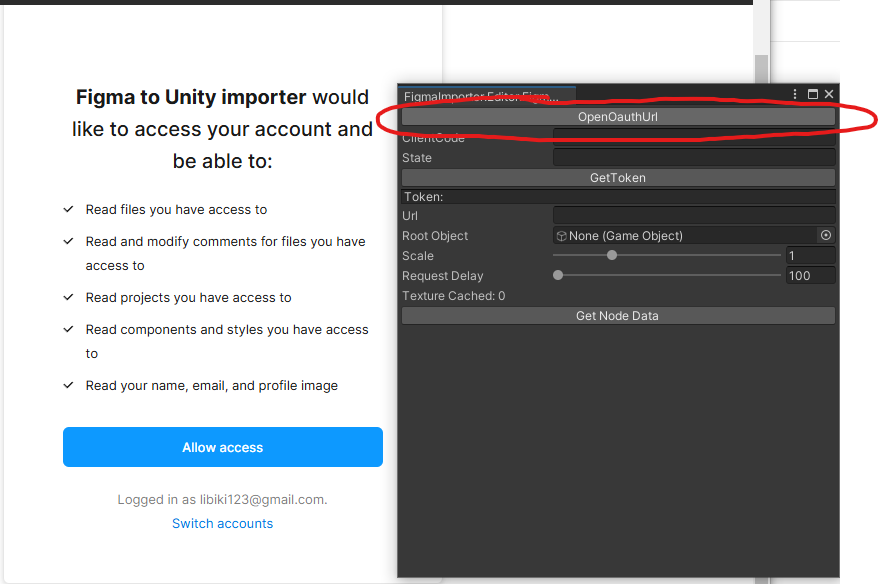
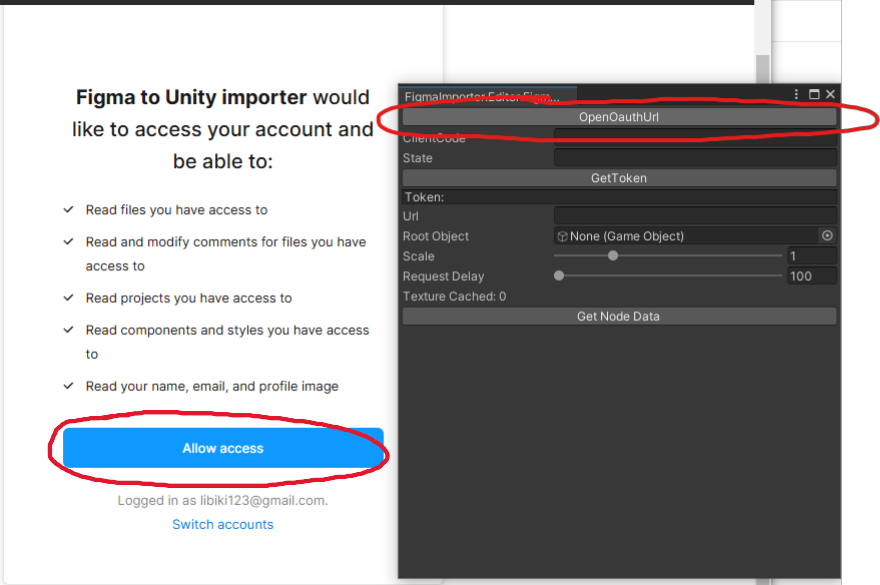
interview doc update

diff --git a/docs/interview-docs/unity/interviewPrep.md b/docs/interview-docs/unity/interviewPrep.md
@@ -29,38 +29,88 @@ Your interview preparation for Unity should vary based on your experience and th
 
 Some interview questions that may come up during the process:
 
+### General
+
 1. **Tell me about yourself**
+
+   - Introduce your name > year of experience > your hobby - if align with the job > your current position & company - if employed > your main task in the company > your past experience/product (if any) > your goal in the future
 
 2. Tell me where a time you strongly disagree with someone in your team
 
-. What are your product frameworks you have been using?
+3. What are your product frameworks you have been using?
 
-. Describe one project in your portfolio
+4. Describe one project in your portfolio
 
-6. **How would you optimize code, scene, material, shader to make it compatible with even low end phone?**
+### Unity
 
-   Check out my [Unity Optimization](../../unity-docs/unity-optimizing.md) page for more details
+1. **What components have you used in your project?**
 
-   - You can use **Frame debugger** to check draw call to check where/what being drawing each frame, combine sprite using **Sprite Atlas** to reduce draw call
-   - You can use custom **Tick System** to replace normal **Update** in mono, this will reduce the update call for logic that doesnt need to be updated every frame
-   - you can create a **Benchmark Tool** to test your code to measure its performance, this will help you identify where/what being slow
-   - Using **Hash String** with animator. Animmator functions usually hash the string you pass in the parameter and this will cost some performant, we can reduce by using **Animator.StringToHash** from the start. Same thing with change shader property, we can use **Shader.PropertyToID** to hash the property name and change the shader property with the hash value.
-   - Changing renderer pipeline setting, you can turn off setting like **Depth Texture** to reduce draw call.
-   - For instantiate lots of object, you can use **Object Pooling System** to reuse the object and reduce garbage collection.
-   - Compressing textures, sprites and audios. Change the compression setting to reduce the size of the texture, sprite and audio but make sure the quality is not degraded.
+2. Physics
 
-. Do you know how to use profiler?
+- which collider cost lest
 
-. How do you reduce size of the game without satisfied the quality?
+3. Animator
 
-. Which programming pattern you implement in your project?
+   - blend animation
+   - blend top and bot anim
+   - control animation
 
-. Have you play this \*\*\*\* game? can do deconstruct and explain how this game works?
+4. Light
 
-. Do you know about addressable and assetBundle?
+   - different type of light
+   - light probe, reflection probe
+
+5. Shadow
+
+- if shadow not showing, how would you solve it?
+
+6. Particle System
+
+- scaling
+
+7. Rendering
+
+- layer, camera, ui so on
+- Understand batching and managing UI draw calls
+
+8. Shader
+
+- car crash
+
+9. Audio & Texture compression
+
+- different compression for pc, android, ios
+
+10. **Optimizing**
+
+    Check out my [Unity Optimization](../../unity-docs/unity-optimizing.md) page for more details
+
+    - You can use **Frame debugger** to check draw call to check where/what being drawing each frame, combine sprite using **Sprite Atlas** to reduce draw call
+    - You can use custom **Tick System** to replace normal **Update** in mono, this will reduce the update call for logic that doesnt need to be updated every frame
+    - you can create a **Benchmark Tool** to test your code to measure its performance, this will help you identify where/what being slow
+    - Using **Hash String** with animator. Animmator functions usually hash the string you pass in the parameter and this will cost some performant, we can reduce by using **Animator.StringToHash** from the start. Same thing with change shader property, we can use **Shader.PropertyToID** to hash the property name and change the shader property with the hash value.
+    - Changing renderer pipeline setting, you can turn off setting like **Depth Texture** to reduce draw call.
+    - For instantiate lots of object, you can use **Object Pooling System** to reuse the object and reduce garbage collection.
+    - Compressing textures, sprites and audios. Change the compression setting to reduce the size of the texture, sprite and audio but make sure the quality is not degraded.
+
+11. MonoBehaviour
+
+- different between update, fixed update, late update
+
+12. Couroutine
+
+### C#
+
+1. What is the difference between **struct** and **class** in C#?
+
+2. is array, list big O or small O
 
 ---
 
 ## Questions to Ask
 
 You will need to prepare some questions to ask during the interview. Do research about the company and their products.
+
+Here some general questions that you can ask:
+
+1.

diff --git a/docs/unity-docs/unity-plugin/figma-importer.md b/docs/unity-docs/unity-plugin/figma-importer.md
@@ -22,7 +22,7 @@ https://github.com/phamtanlong/figma-to-unity-ugui.git?path=/Assets/Packages/Fig
 
 ### Authorization
 
-1. **Open Figma Importer**
+1. Open Figma Importer
 
    - Open FI panel from **Window > FigmaImporter**.
 
@@ -30,20 +30,37 @@ https://github.com/phamtanlong/figma-to-unity-ugui.git?path=/Assets/Packages/Fig
 
 2. You'll be redirected to a page to allow access. Click **Allow access**.
 
-   ![Figma access](#)
+   ![FI access](img/figma-importer/image2.png)
 
-3. Afterward, a callback page will open. Copy the `ClientCode` and `State` values into the **Figma Editor** window in Unity.
-4. Press the **GetToken** button.
+3. Afterward, a callback page will open. Copy the `ClientCode` and `State` values into the **Figma Editor** window in Unity. Then press the **GetToken** button.
 
-   - If the token appears, the process is successful. If not, repeat the authorization steps.
+   ![FI access 2](img/figma-importer/image3.png)
 
-   ![Token](#)
+4. If the token appears, the process is successful. If not, repeat the authorization steps.
 
 ### Importing Nodes
 
-1. Copy the desired node link from Figma and paste it into the **URL** field in Unity.
-2. Add a **Canvas** to the Canvas field in the importer editor window.
-3. Press the **Get Node Data** button. This will load the node data, including its children.
+1. Create all important setting from **Tool > FigmaImporter > Create All Setting**
+
+   ![FI setting](img/figma-importer/image4.png)
+
+   :::info Font Handling
+
+   If you encounter a font error, add the required font to the `FontLinks.asset` ScriptableObject.
+
+   ![Font Links](img/figma-importer/image8.png)
+
+   :::
+
+2. Copy the desired node link from Figma
+
+   ![Figma copy](img/figma-importer/image5.png)
+
+3. Paste it into the `URL` field in Unity. Add a **Canvas** to the Canvas field in the importer editor window.
+
+   ![FI URL](img/figma-importer/image6.png)
+
+4. Press the **Get Node Data** button. This will load the node data, including its children.
 
 ### Setting Actions for Nodes
 
@@ -65,9 +82,11 @@ Three buttons help manage node actions:
 2. **To Transform:** Sets all nodes to **Transform**. Useful for applying changes to existing objects.
 3. **To SVG:** Requires Unity's Vector Graphics package. Attempts to load all images as SVG.
 
+![Generate Nodes](img/figma-importer/image7.png)
+
 ### Generating Nodes
 
-1. After setting actions for all nodes, press the **Generate Nodes** button. This will generate the node in the referenced Canvas.
+After setting actions for all nodes, press the **Generate Nodes** button. This will generate the node in the referenced Canvas.
 
 #### Applying Changes to Existing Objects
 
@@ -78,7 +97,3 @@ Three buttons help manage node actions:
 
 - You can adjust the scale of objects and raster images using the **Scale** parameter.
 - Maximum allowed scale is **x4** (Figma API limitation).
-
-### Font Handling
-
-- If you encounter a font error, add the required font to the `FontLinks.asset` ScriptableObject.

diff --git a/README.md b/README.md
@@ -1,6 +1,6 @@
 # Website
 
-This website is built using [Docusaurus](https://docusaurus.io/), a modern static website generator.
+This [website](https://libiki123.github.io/webdocs) is built using [Docusaurus](https://docusaurus.io/), a modern static website generator.
 
 ### Installation
 
